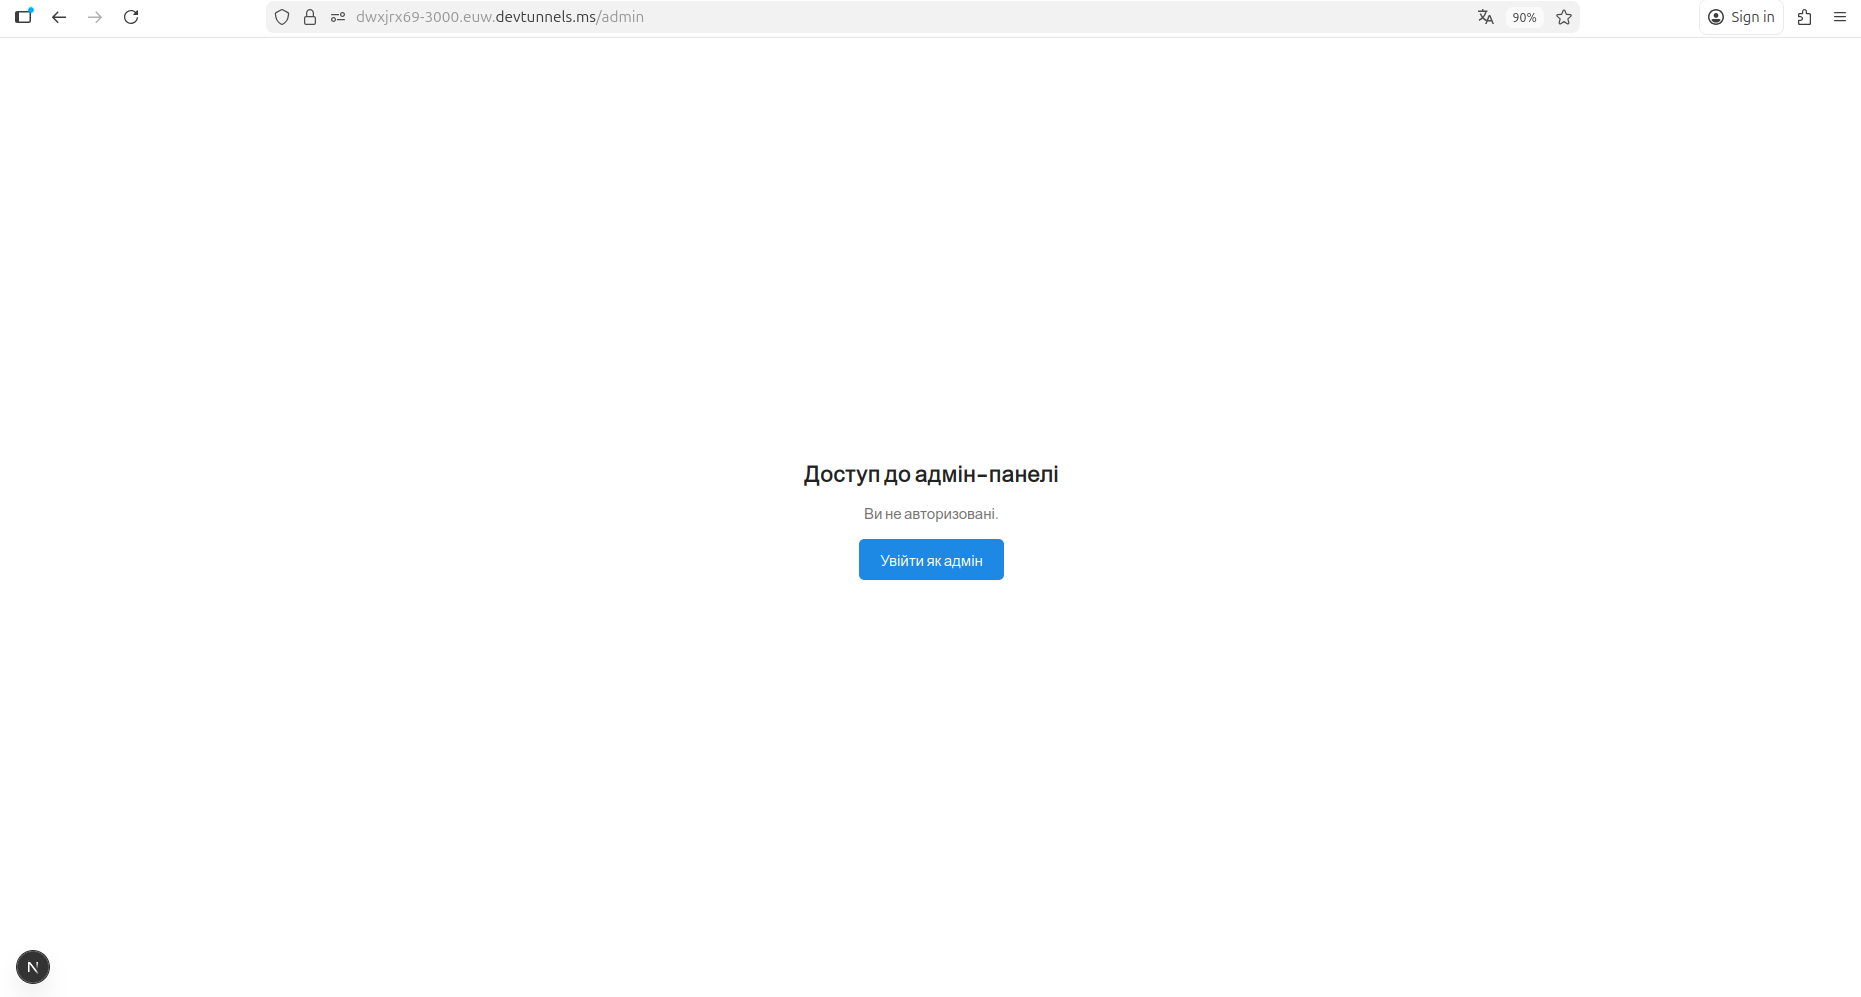
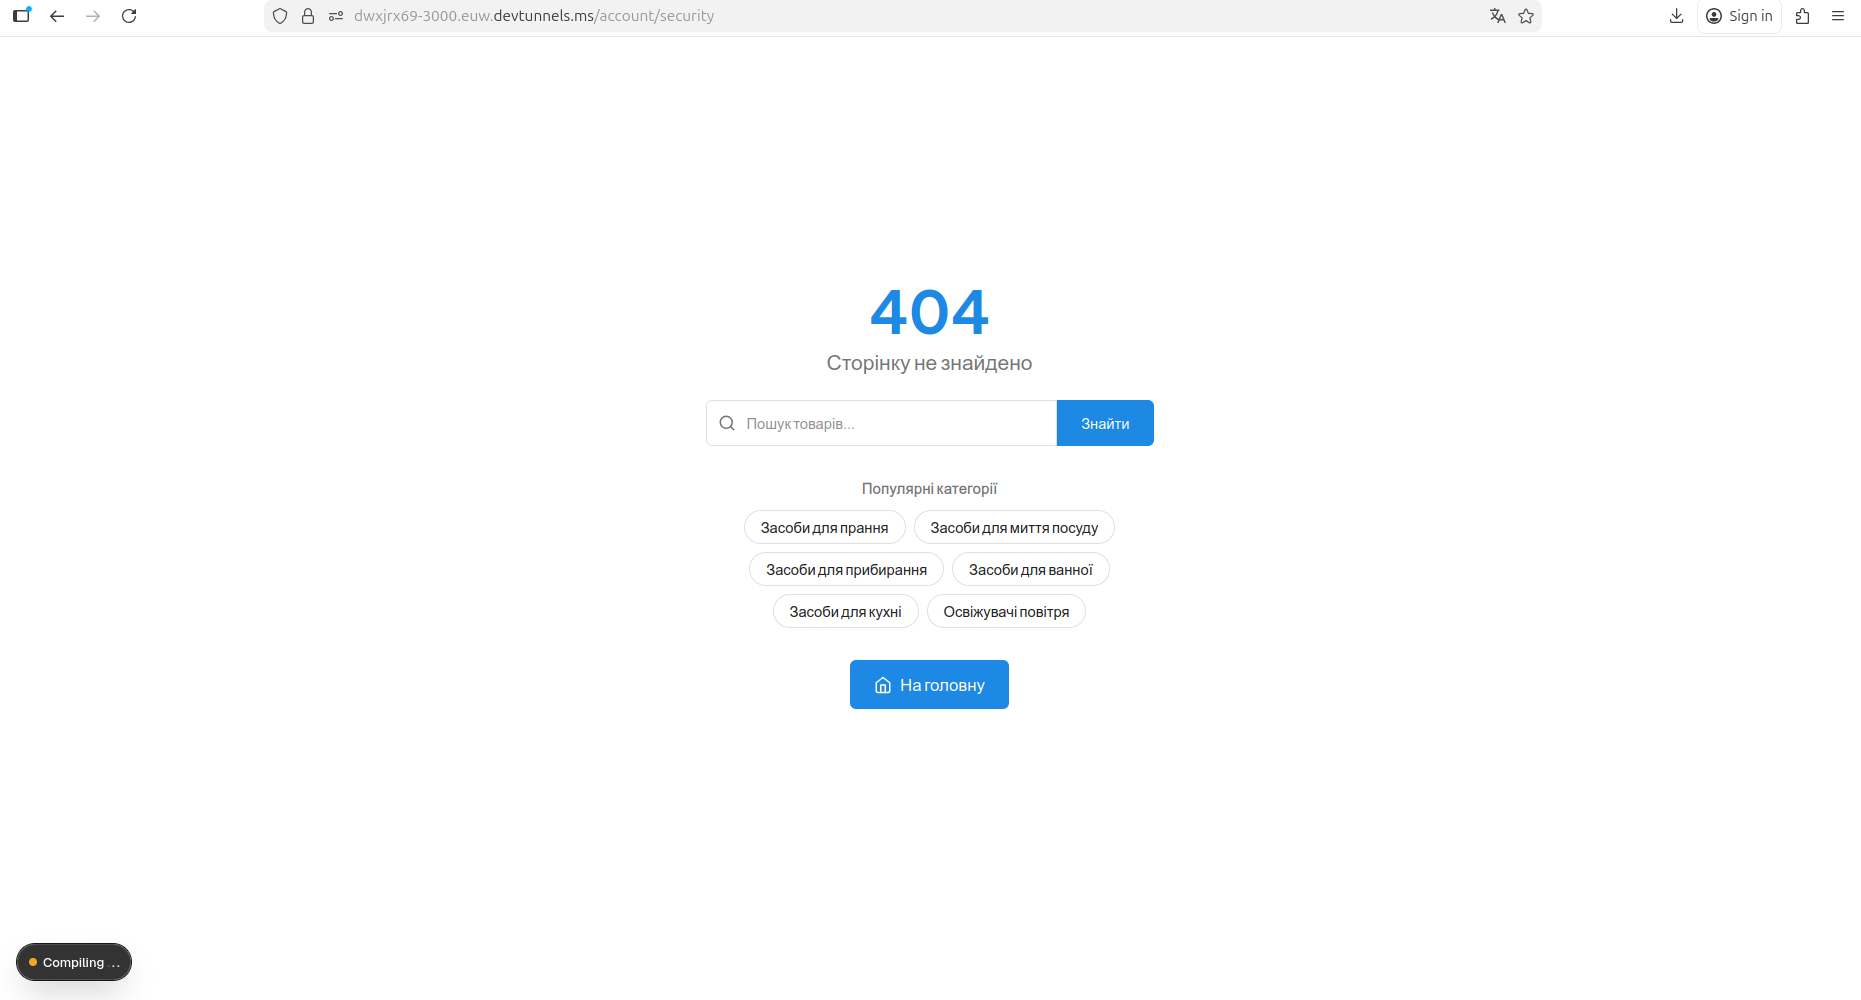
FAQ XSS fix, Typesense synonyms, weekly report, SEO cron, login history
Security:
- FAQ: sanitizeHtml(item.question) before highlightText (XSS fix)

Search:
- Typesense synonyms: 14 synonym groups for Ukrainian products
  (порошок=прашок=пральний засіб, fairy=фейрі, persil=персіл, etc.)
- Synonyms auto-configure on reindex

Monitoring:
- POST /api/v1/cron/weekly-report — sends weekly stats to Telegram
  (orders, revenue, new users, top-5 products)
- POST /api/v1/cron/seo-check — checks broken links, missing meta tags,
  saves results for admin, alerts via Telegram

User security:
- LoginHistory model — IP, device, browser, OS per login
- Logged automatically on successful authentication
- GET /api/v1/me/login-history — users can view their login history
- Migration: 20260318000000_add_login_history

diff --git a/src/app/api/v1/cron/seo-check/route.ts b/src/app/api/v1/cron/seo-check/route.ts
@@ -1,0 +1,111 @@
+import { NextRequest } from 'next/server';
+import { prisma } from '@/lib/prisma';
+import { successResponse, errorResponse } from '@/utils/api-response';
+import { env } from '@/config/env';
+import { timingSafeCompare } from '@/utils/timing-safe';
+
+export async function POST(request: NextRequest) {
+  try {
+    const authHeader = request.headers.get('authorization');
+    const expectedToken = `Bearer ${env.APP_SECRET}`;
+
+    if (!authHeader || !timingSafeCompare(authHeader, expectedToken)) {
+      return errorResponse('Unauthorized', 401);
+    }
+
+    const appUrl = env.APP_URL;
+    const issues: { type: string; url: string; status: number; details?: string }[] = [];
+
+    // Check all active product pages
+    const products = await prisma.product.findMany({
+      where: { isActive: true },
+      select: { slug: true, name: true, content: { select: { seoTitle: true, seoDescription: true } } },
+    });
+
+    // Check for missing SEO fields
+    for (const p of products) {
+      if (!p.content?.seoTitle) {
+        issues.push({ type: 'missing_meta_title', url: `/product/${p.slug}`, status: 0, details: p.name });
+      }
+      if (!p.content?.seoDescription) {
+        issues.push({ type: 'missing_meta_description', url: `/product/${p.slug}`, status: 0, details: p.name });
+      }
+    }
+
+    // Check sample of product pages for broken links (HTTP status)
+    const sampleProducts = products.slice(0, 20); // Check first 20 to avoid overload
+    for (const p of sampleProducts) {
+      try {
+        const res = await fetch(`${appUrl}/product/${p.slug}`, {
+          method: 'HEAD',
+          signal: AbortSignal.timeout(5000),
+        });
+        if (res.status >= 400) {
+          issues.push({ type: 'broken_link', url: `/product/${p.slug}`, status: res.status, details: p.name });
+        }
+      } catch {
+        issues.push({ type: 'unreachable', url: `/product/${p.slug}`, status: 0, details: 'Timeout or network error' });
+      }
+    }
+
+    // Check category pages
+    const categories = await prisma.category.findMany({
+      where: { isVisible: true },
+      select: { slug: true, name: true },
+    });
+
+    for (const c of categories) {
+      try {
+        const res = await fetch(`${appUrl}/catalog?category=${c.slug}`, {
+          method: 'HEAD',
+          signal: AbortSignal.timeout(5000),
+        });
+        if (res.status >= 400) {
+          issues.push({ type: 'broken_category', url: `/catalog?category=${c.slug}`, status: res.status, details: c.name });
+        }
+      } catch {
+        issues.push({ type: 'unreachable', url: `/catalog?category=${c.slug}`, status: 0 });
+      }
+    }
+
+    // Save results to site_settings for admin to view
+    await prisma.siteSetting.upsert({
+      where: { key: 'seo_check_results' },
+      update: { value: JSON.stringify({ issues, checkedAt: new Date().toISOString(), productsChecked: products.length }) },
+      create: { key: 'seo_check_results', value: JSON.stringify({ issues, checkedAt: new Date().toISOString(), productsChecked: products.length }) },
+    });
+
+    // Alert via Telegram if critical issues found
+    const brokenLinks = issues.filter((i) => i.type === 'broken_link');
+    if (brokenLinks.length > 0) {
+      const botToken = process.env.TELEGRAM_BOT_TOKEN;
+      const chatId = process.env.TELEGRAM_MANAGER_CHAT_ID;
+      if (botToken && chatId) {
+        const msg = [
+          '⚠️ <b>SEO Аудит — знайдено проблеми</b>',
+          '',
+          `Битих посилань: <b>${brokenLinks.length}</b>`,
+          `Без Meta Title: <b>${issues.filter((i) => i.type === 'missing_meta_title').length}</b>`,
+          `Без Meta Description: <b>${issues.filter((i) => i.type === 'missing_meta_description').length}</b>`,
+          '',
+          'Деталі: /admin/seo-audit',
+        ].join('\n');
+
+        await fetch(`https://api.telegram.org/bot${botToken}/sendMessage`, {
+          method: 'POST',
+          headers: { 'Content-Type': 'application/json' },
+          body: JSON.stringify({ chat_id: chatId, text: msg, parse_mode: 'HTML' }),
+        });
+      }
+    }
+
+    return successResponse({
+      totalIssues: issues.length,
+      brokenLinks: brokenLinks.length,
+      missingMeta: issues.filter((i) => i.type.startsWith('missing_')).length,
+      productsChecked: products.length,
+    });
+  } catch {
+    return errorResponse('Помилка SEO перевірки', 500);
+  }
+}

diff --git a/src/app/api/v1/cron/weekly-report/route.ts b/src/app/api/v1/cron/weekly-report/route.ts
@@ -1,0 +1,82 @@
+import { NextRequest } from 'next/server';
+import { prisma } from '@/lib/prisma';
+import { successResponse, errorResponse } from '@/utils/api-response';
+import { env } from '@/config/env';
+import { timingSafeCompare } from '@/utils/timing-safe';
+
+export async function POST(request: NextRequest) {
+  try {
+    const authHeader = request.headers.get('authorization');
+    const expectedToken = `Bearer ${env.APP_SECRET}`;
+
+    if (!authHeader || !timingSafeCompare(authHeader, expectedToken)) {
+      return errorResponse('Unauthorized', 401);
+    }
+
+    const weekAgo = new Date(Date.now() - 7 * 24 * 60 * 60 * 1000);
+
+    // Gather weekly stats
+    const [ordersCount, revenue, newUsers, topProducts] = await Promise.all([
+      prisma.order.count({ where: { createdAt: { gte: weekAgo } } }),
+      prisma.order.aggregate({
+        where: { createdAt: { gte: weekAgo }, status: { notIn: ['cancelled', 'returned'] } },
+        _sum: { totalAmount: true },
+      }),
+      prisma.user.count({ where: { createdAt: { gte: weekAgo } } }),
+      prisma.orderItem.groupBy({
+        by: ['productId'],
+        where: { order: { createdAt: { gte: weekAgo } } },
+        _sum: { quantity: true },
+        orderBy: { _sum: { quantity: 'desc' } },
+        take: 5,
+      }),
+    ]);
+
+    // Get product names for top products
+    const productIds = topProducts.map((p) => p.productId).filter(Boolean) as number[];
+    const products = await prisma.product.findMany({
+      where: { id: { in: productIds } },
+      select: { id: true, name: true },
+    });
+    const productMap = new Map(products.map((p) => [p.id, p.name]));
+
+    const totalRevenue = Number(revenue._sum.totalAmount || 0);
+    const topList = topProducts
+      .map((p, i) => `${i + 1}. ${productMap.get(p.productId!) || 'Невідомий'} — ${p._sum.quantity} шт.`)
+      .join('\n');
+
+    // Format message
+    const message = [
+      '📊 <b>Щотижневий звіт — Порошок</b>',
+      '',
+      `📦 Замовлень: <b>${ordersCount}</b>`,
+      `💰 Виручка: <b>${totalRevenue.toFixed(0)} ₴</b>`,
+      `👥 Нових клієнтів: <b>${newUsers}</b>`,
+      '',
+      '🏆 <b>Топ-5 товарів:</b>',
+      topList || 'Немає даних',
+      '',
+      `📅 Період: ${weekAgo.toLocaleDateString('uk-UA')} — ${new Date().toLocaleDateString('uk-UA')}`,
+    ].join('\n');
+
+    // Send to Telegram manager chat
+    const botToken = process.env.TELEGRAM_BOT_TOKEN;
+    const chatId = process.env.TELEGRAM_MANAGER_CHAT_ID;
+
+    if (botToken && chatId) {
+      await fetch(`https://api.telegram.org/bot${botToken}/sendMessage`, {
+        method: 'POST',
+        headers: { 'Content-Type': 'application/json' },
+        body: JSON.stringify({
+          chat_id: chatId,
+          text: message,
+          parse_mode: 'HTML',
+        }),
+      });
+    }
+
+    return successResponse({ sent: !!(botToken && chatId), message });
+  } catch {
+    return errorResponse('Помилка генерації звіту', 500);
+  }
+}

diff --git a/src/services/auth.ts b/src/services/auth.ts
@@ -131,6 +131,9 @@ export async function loginUser(data: {
 
   const tokens = await createTokenPair(user.id, user.email, user.role, data.ipAddress, data.deviceInfo);
 
+  // Log successful login
+  logLogin(user.id, data.ipAddress, data.deviceInfo, true).catch(() => {});
+
   return {
     requiresTwoFactor: false,
     user: { id: user.id, email: user.email, role: user.role, wholesaleGroup: user.wholesaleGroup },
@@ -400,4 +403,54 @@ async function createTokenPair(
   });
 
   return { accessToken, refreshToken };
+}
+
+/**
+ * Log a login attempt to login_history table.
+ */
+async function logLogin(userId: number, ipAddress?: string, userAgent?: string, success = true) {
+  // Parse basic device info from user agent
+  let device: string | undefined;
+  let browser: string | undefined;
+  let os: string | undefined;
+
+  if (userAgent) {
+    if (/Mobile|Android|iPhone/i.test(userAgent)) device = 'mobile';
+    else if (/Tablet|iPad/i.test(userAgent)) device = 'tablet';
+    else device = 'desktop';
+
+    if (/Chrome/i.test(userAgent)) browser = 'Chrome';
+    else if (/Firefox/i.test(userAgent)) browser = 'Firefox';
+    else if (/Safari/i.test(userAgent)) browser = 'Safari';
+    else if (/Edge/i.test(userAgent)) browser = 'Edge';
+
+    if (/Windows/i.test(userAgent)) os = 'Windows';
+    else if (/Mac/i.test(userAgent)) os = 'macOS';
+    else if (/Linux/i.test(userAgent)) os = 'Linux';
+    else if (/Android/i.test(userAgent)) os = 'Android';
+    else if (/iPhone|iPad/i.test(userAgent)) os = 'iOS';
+  }
+
+  await prisma.loginHistory.create({
+    data: {
+      userId,
+      ipAddress: ipAddress || null,
+      userAgent: userAgent?.slice(0, 500) || null,
+      device,
+      browser,
+      os,
+      success,
+    },
+  });
+}
+
+/**
+ * Get login history for a user.
+ */
+export async function getLoginHistory(userId: number, limit = 20) {
+  return prisma.loginHistory.findMany({
+    where: { userId },
+    orderBy: { createdAt: 'desc' },
+    take: limit,
+  });
 }

diff --git a/src/services/typesense.ts b/src/services/typesense.ts
@@ -45,10 +45,45 @@ export async function ensureCollection(): Promise<void> {
 }
 
 /**
+ * Configure search synonyms for typo tolerance and Ukrainian language variants.
+ */
+export async function configureSynonyms(): Promise<void> {
+  await ensureCollection();
+
+  const synonyms = [
+    { id: 'poroshok', synonyms: ['порошок', 'прашок', 'парашок', 'пральний засіб', 'засіб для прання'] },
+    { id: 'gel', synonyms: ['гель', 'гел', 'рідкий засіб', 'рідина'] },
+    { id: 'kapsuly', synonyms: ['капсули', 'капсулы', 'подушечки', 'таблетки для прання'] },
+    { id: 'konditsioner', synonyms: ['кондиціонер', 'ополіскувач', 'пом\'якшувач'] },
+    { id: 'plyamovyvidnyk', synonyms: ['плямовивідник', 'відбілювач', 'пятновыводитель'] },
+    { id: 'mylo', synonyms: ['мило', 'мыло', 'мильний засіб'] },
+    { id: 'shampun', synonyms: ['шампунь', 'шампун', 'шампуні'] },
+    { id: 'zubna', synonyms: ['зубна паста', 'зубна', 'паста для зубів'] },
+    { id: 'posud', synonyms: ['посуд', 'посуда', 'миття посуду', 'плин для посуду', 'засіб для посуду'] },
+    { id: 'chyshennya', synonyms: ['чищення', 'чистка', 'миючий засіб', 'засіб для чищення'] },
+    { id: 'fairy', synonyms: ['fairy', 'фейрі', 'фери'] },
+    { id: 'persil', synonyms: ['persil', 'персіл', 'персил'] },
+    { id: 'ariel', synonyms: ['ariel', 'аріель', 'аріел'] },
+    { id: 'tide', synonyms: ['tide', 'тайд', 'тайт'] },
+  ];
+
+  for (const syn of synonyms) {
+    try {
+      await client.collections(COLLECTION_NAME).synonyms().upsert(syn.id, {
+        synonyms: syn.synonyms,
+      });
+    } catch {
+      // Synonym may already exist
+    }
+  }
+}
+
+/**
  * Index all active products from DB into Typesense.
  */
 export async function indexAllProducts(): Promise<{ indexed: number }> {
   await ensureCollection();
+  await configureSynonyms();
 
   const products = await prisma.product.findMany({
     where: { isActive: true },

diff --git a/src/app/api/v1/me/login-history/route.ts b/src/app/api/v1/me/login-history/route.ts
@@ -1,0 +1,12 @@
+import { withAuth } from '@/middleware/auth';
+import { getLoginHistory } from '@/services/auth';
+import { successResponse, errorResponse } from '@/utils/api-response';
+
+export const GET = withAuth(async (_request, { user }) => {
+  try {
+    const history = await getLoginHistory(user.id);
+    return successResponse(history);
+  } catch {
+    return errorResponse('Помилка завантаження історії', 500);
+  }
+});

diff --git a/src/components/faq/FaqContent.tsx b/src/components/faq/FaqContent.tsx
@@ -37,7 +37,7 @@ export default function FaqContent({ groupedFaq }: FaqContentProps) {
     <Accordion>
       {items.map((item) => {
         const title = query
-          ? <span dangerouslySetInnerHTML={{ __html: highlightText(item.question, query) }} />
+          ? <span dangerouslySetInnerHTML={{ __html: highlightText(sanitizeHtml(item.question), query) }} />
           : item.question;
         const answerHtml = query
           ? highlightText(sanitizeHtml(item.answer), query)